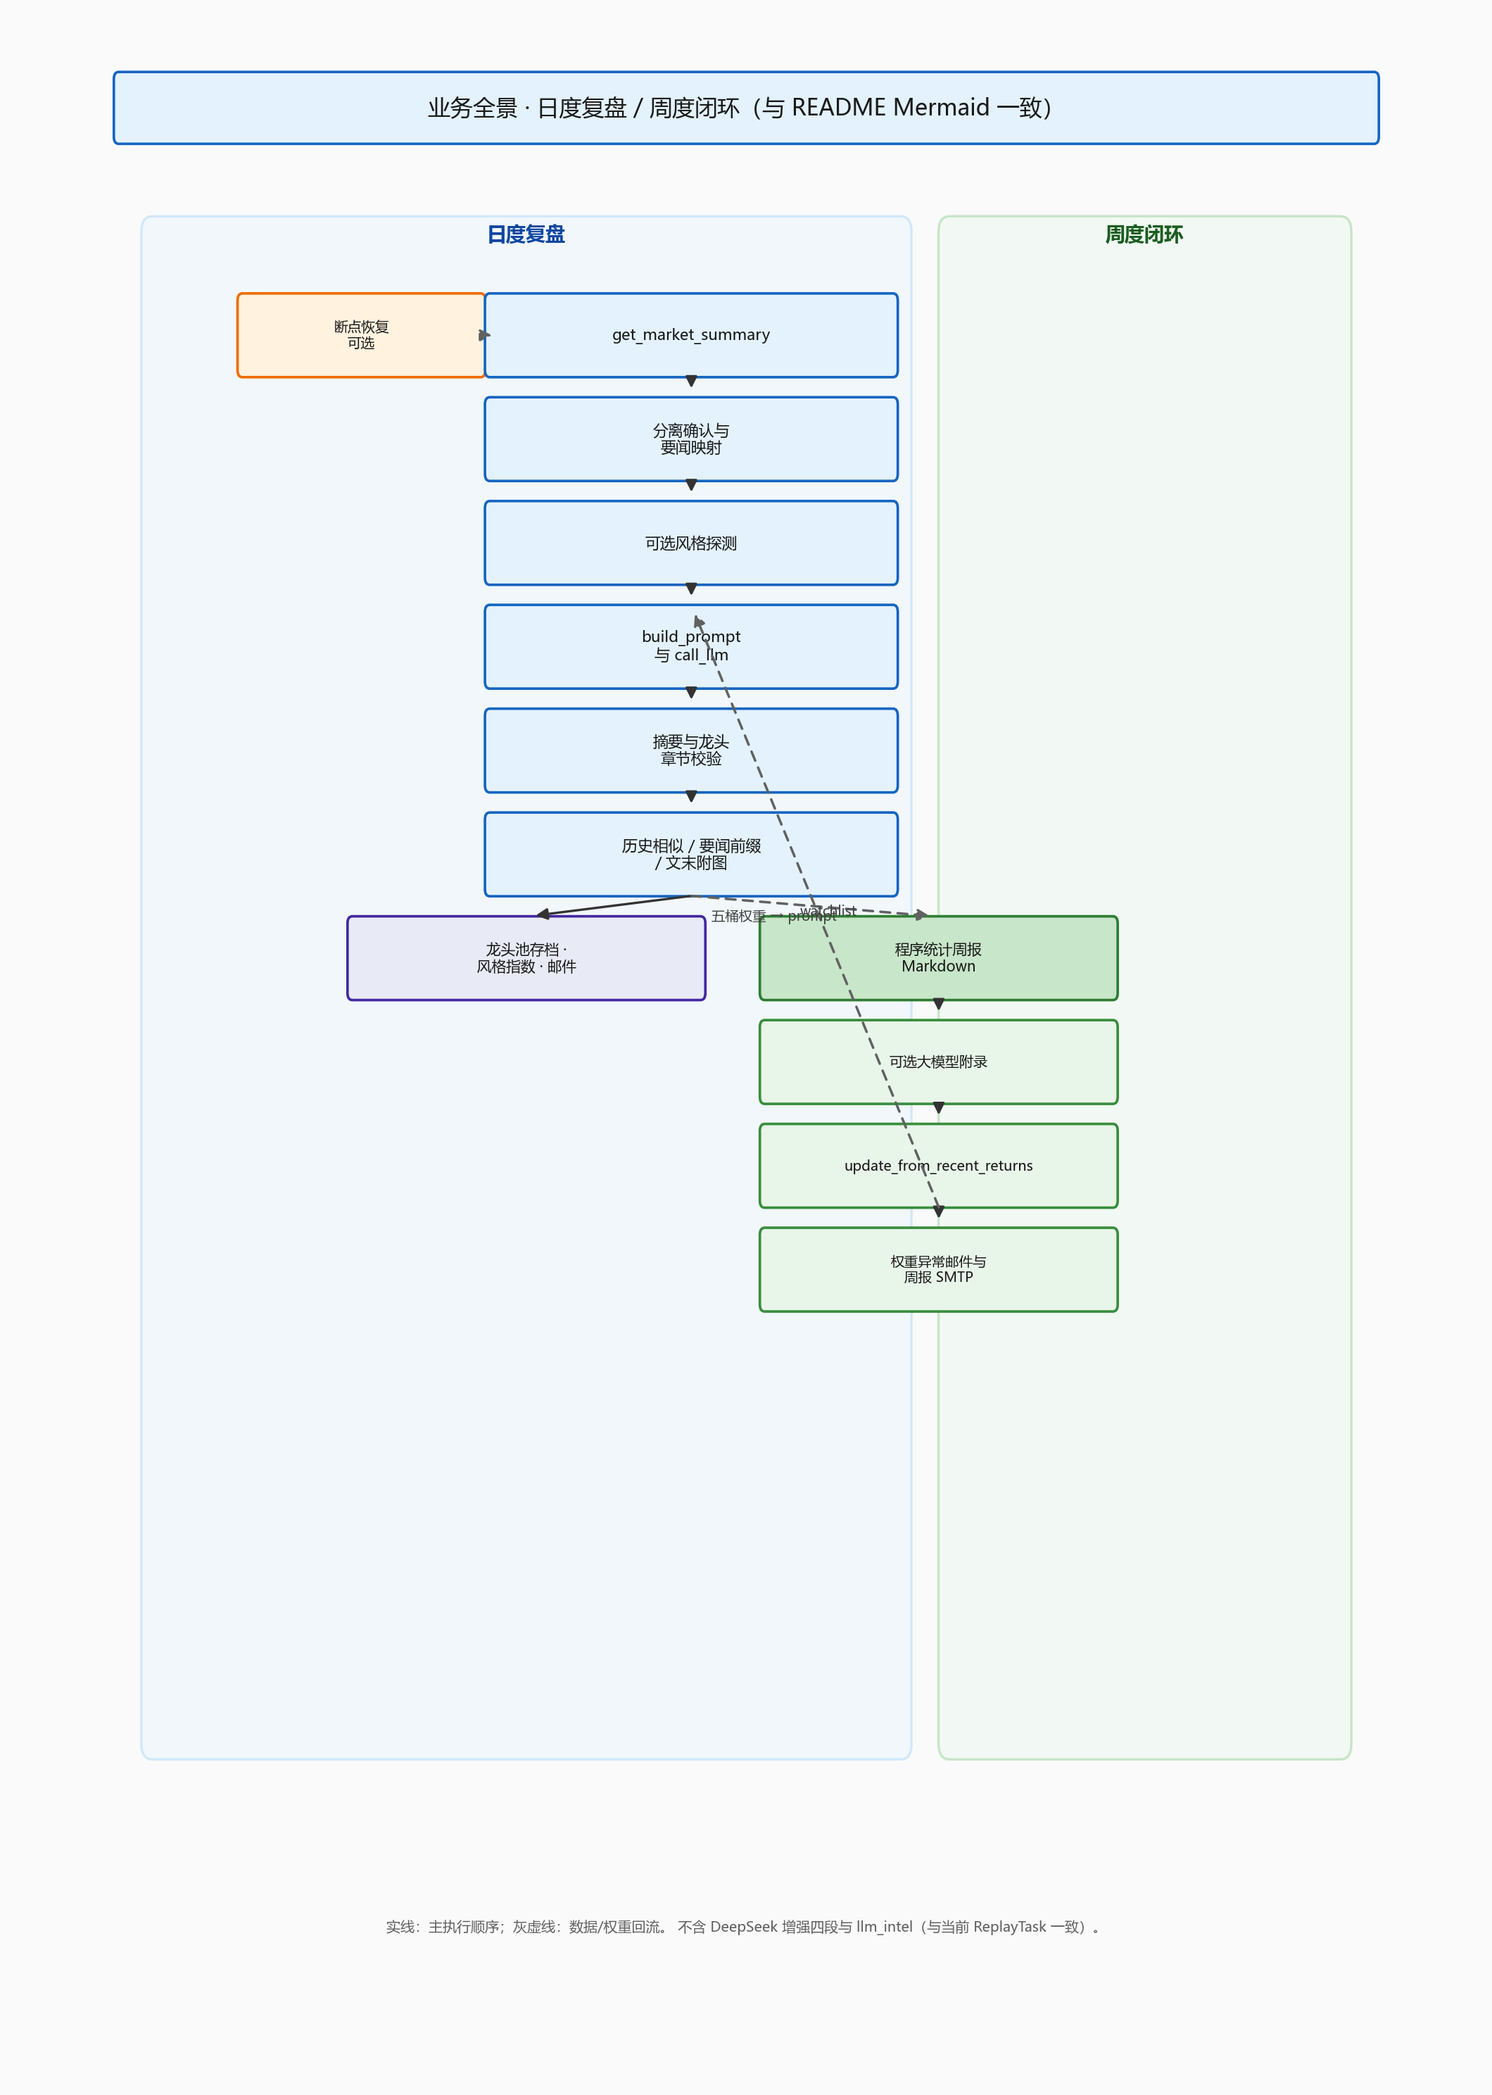
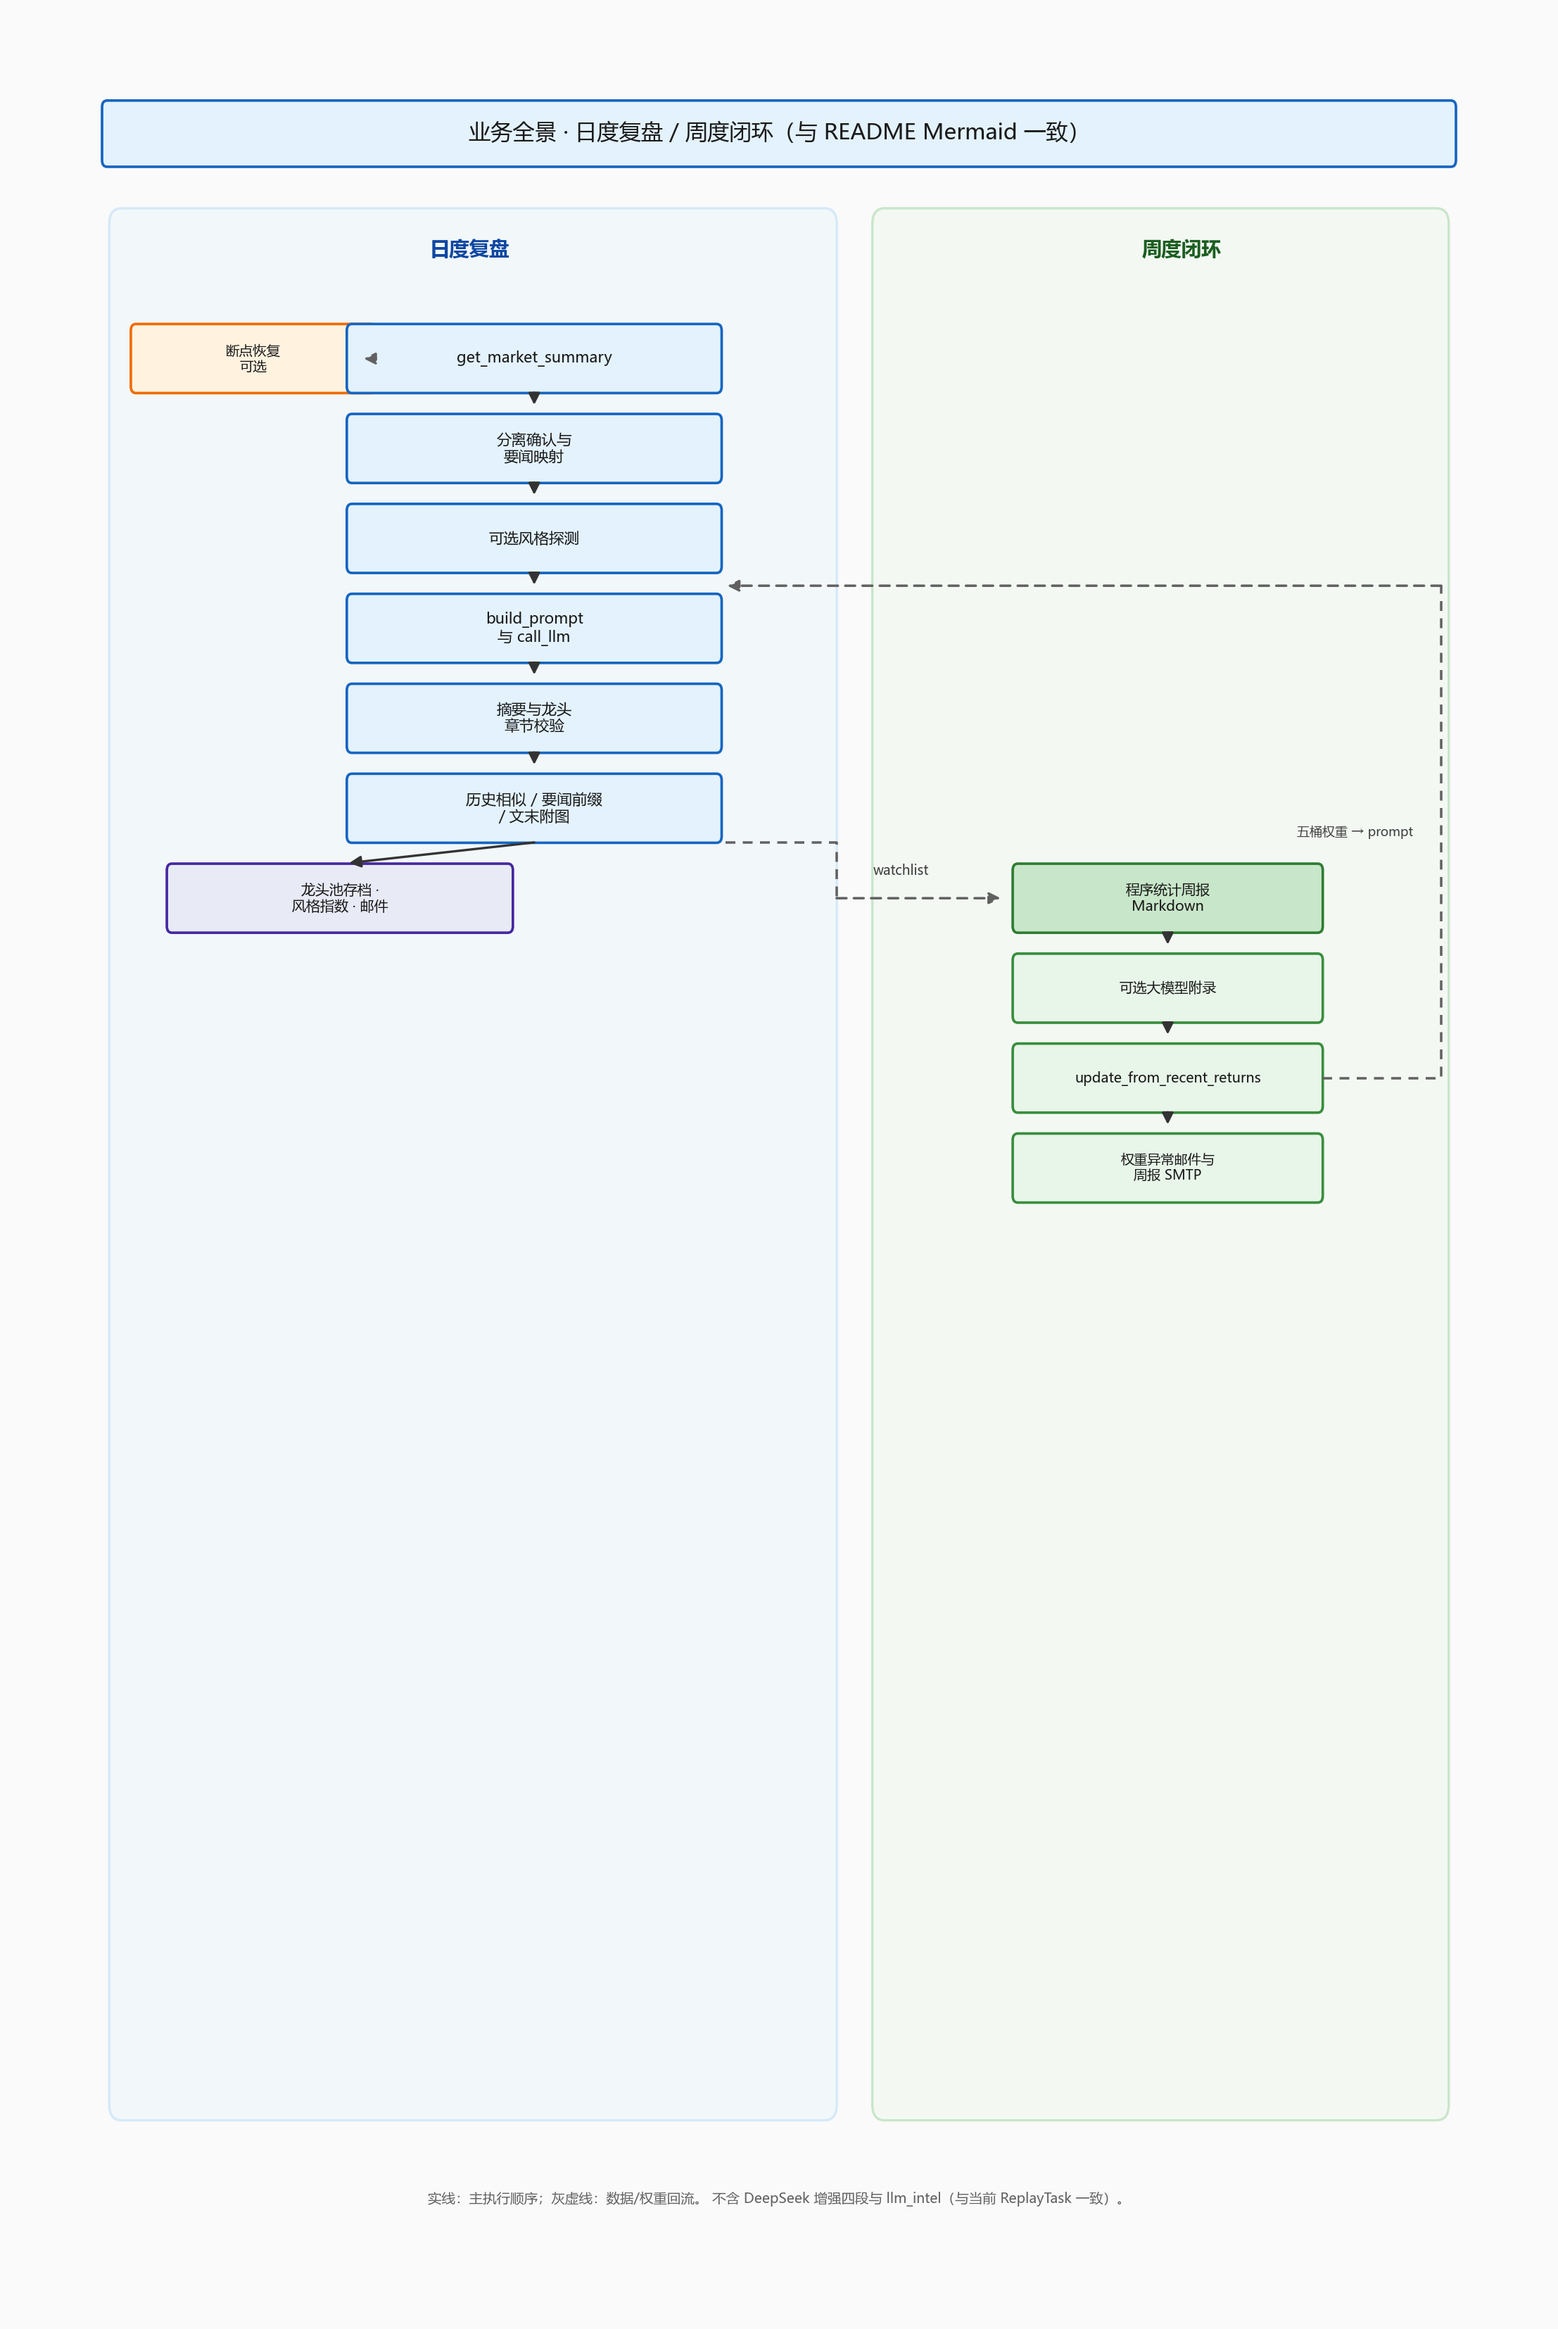
fix: README 业务全景 PNG 布局（分列走廊、折线虚线避免穿框）
Made-with: Cursor

diff --git a/app/utils/replay_footer_chart_draw.py b/app/utils/replay_footer_chart_draw.py
@@ -110,6 +110,30 @@ def _dashed_arrow(
     )
 
 
+def _dashed_line_segments(
+    ax,
+    points: list[tuple[float, float]],
+    *,
+    color: str = "#616161",
+    lw: float = 1.05,
+) -> None:
+    """虚折线（无箭头），用于绕行避免压住节点。"""
+    if len(points) < 2:
+        return
+    xs = [p[0] for p in points]
+    ys = [p[1] for p in points]
+    ax.plot(
+        xs,
+        ys,
+        linestyle=(0, (4, 3)),
+        color=color,
+        lw=lw,
+        solid_capstyle="round",
+        clip_on=False,
+        zorder=1,
+    )
+
+
 def _edge_label(ax, x: float, y: float, text: str, *, fs: float = 6.2) -> None:
     ax.text(
         x,
@@ -431,6 +455,8 @@ def save_readme_business_overview_png(out_path: str, *, dpi: int = 240) -> None:
     """
     README「业务全景」Mermaid 的静态 PNG：日度主链 + 周度闭环 + 两条虚线关联。
     不含已移除的「DeepSeek 增强四段」与「程序智能校验与决策摘要」节点。
+
+    布局：日度列靠左、周度列靠右，留出中间走廊；「五桶权重→prompt」用折线虚线，避免横穿节点。
     """
     import matplotlib.pyplot as plt
     from matplotlib import patches
@@ -441,68 +467,72 @@ def save_readme_business_overview_png(out_path: str, *, dpi: int = 240) -> None:
         title_fc="#e3f2fd",
         title_ec="#1565c0",
     )
-    GAP = 1.05
-    fig_w, fig_h = 10.5, 15.2
+    GAP = 1.15
+    bh = 3.65
+    bw = 26.0
+    bw_w = 21.5
+    # 更高画布，避免周度列与日度列在垂直方向挤在一起
+    fig_w, fig_h = 11.0, 17.0
+    y_max = 118.0
     fig, ax = plt.subplots(figsize=(fig_w, fig_h), dpi=dpi)
     ax.set_xlim(0, 100)
-    ax.set_ylim(0, 100)
+    ax.set_ylim(0, y_max)
     ax.axis("off")
     fig.patch.set_facecolor(pal.bg)
     ax.set_facecolor(pal.bg)
 
     cx = 50.0
-    y = 97.5
-    h_t = 3.6
+    y_title = 114.0
+    h_t = 3.5
     _rounded_box(
         ax,
-        (cx, y),
-        92,
+        (cx, y_title),
+        94,
         h_t,
         "业务全景 · 日度复盘 / 周度闭环（与 README Mermaid 一致）",
-        fs=9.6,
+        fs=9.4,
         fc=pal.title_fc,
         ec=pal.title_ec,
     )
 
     daily_rect = patches.FancyBboxPatch(
-        (6.0, 14.0),
-        56.0,
-        78.0,
-        boxstyle="round,pad=0.02,rounding_size=0.8",
+        (3.5, 8.0),
+        50.5,
+        102.0,
+        boxstyle="round,pad=0.02,rounding_size=0.85",
         linewidth=1.0,
         edgecolor="#90caf9",
         facecolor="#e3f2fd",
-        alpha=0.35,
+        alpha=0.32,
         zorder=0,
     )
     weekly_rect = patches.FancyBboxPatch(
-        (64.0, 14.0),
-        30.0,
-        78.0,
-        boxstyle="round,pad=0.02,rounding_size=0.8",
+        (56.5, 8.0),
+        40.0,
+        102.0,
+        boxstyle="round,pad=0.02,rounding_size=0.85",
         linewidth=1.0,
         edgecolor="#81c784",
         facecolor="#e8f5e9",
-        alpha=0.4,
+        alpha=0.38,
         zorder=0,
     )
     ax.add_patch(daily_rect)
     ax.add_patch(weekly_rect)
-    ax.text(34.0, 90.8, "日度复盘", ha="center", fontsize=8.4, color="#0d47a1", weight="bold")
-    ax.text(79.0, 90.8, "周度闭环", ha="center", fontsize=8.4, color="#1b5e20", weight="bold")
+    ax.text(28.5, 107.5, "日度复盘", ha="center", fontsize=8.5, color="#0d47a1", weight="bold", zorder=2)
+    ax.text(78.0, 107.5, "周度闭环", ha="center", fontsize=8.5, color="#1b5e20", weight="bold", zorder=2)
 
-    bw = 30.0
-    bh = 4.2
-    fs = 6.55
-    y_a = 86.0
-    x_b, x_a = 22.0, 46.0
+    fs = 6.45
+    x_chain = 33.0
+    x_b, x_a = 13.5, 33.0
+    y_a = 102.0
     _rounded_box(
         ax,
         (x_b, y_a),
-        18.0,
+        17.0,
         bh,
         "断点恢复\n可选",
-        fs=5.9,
+        fs=5.85,
         fc="#fff3e0",
         ec="#ef6c00",
     )
@@ -516,7 +546,7 @@ def save_readme_business_overview_png(out_path: str, *, dpi: int = 240) -> None:
         fc="#e3f2fd",
         ec="#1565c0",
     )
-    _dashed_arrow(ax, x_b + 9.0, y_a, x_a - bw / 2 + 0.5, y_a)
+    _dashed_arrow(ax, x_b + 8.5, y_a, x_a - bw / 2 + 0.5, y_a)
 
     chain_labels = [
         "分离确认与\n要闻映射",
@@ -525,7 +555,6 @@ def save_readme_business_overview_png(out_path: str, *, dpi: int = 240) -> None:
         "摘要与龙头\n章节校验",
         "历史相似 / 要闻前缀\n/ 文末附图",
     ]
-    x_chain = 46.0
     y_cur = y_a - bh / 2 - GAP - bh / 2
     centers: list[tuple[float, float]] = []
     for i, lab in enumerate(chain_labels):
@@ -538,33 +567,44 @@ def save_readme_business_overview_png(out_path: str, *, dpi: int = 240) -> None:
             _arrow(ax, x_chain, py - bh / 2, x_chain, y_cur + bh / 2)
         y_cur = y_cur - bh - GAP
 
-    x_h, x_w = 34.0, 64.0
+    x_h = 19.5
+    x_w = 77.0
     y_g = centers[-1][1]
     g_bot = y_g - bh / 2
     y_hw = y_g - bh / 2 - GAP - bh / 2
     _rounded_box(
         ax,
         (x_h, y_hw),
-        26.0,
+        24.0,
         bh,
         "龙头池存档 ·\n风格指数 · 邮件",
-        fs=6.2,
+        fs=6.0,
         fc="#e8eaf6",
         ec="#4527a0",
     )
     _rounded_box(
         ax,
         (x_w, y_hw),
-        26.0,
+        bw_w,
         bh,
         "程序统计周报\nMarkdown",
-        fs=6.2,
+        fs=6.0,
         fc="#c8e6c9",
         ec="#2e7d32",
     )
     _arrow(ax, x_chain, g_bot, x_h, y_hw + bh / 2)
-    _dashed_arrow(ax, x_chain, g_bot, x_w, y_hw + bh / 2)
-    _edge_label(ax, 56.0, (g_bot + y_hw) / 2 + 0.8, "watchlist", fs=5.8)
+    # G → W1：折线经中间走廊（先横移再落到 W1 左侧），避免斜穿两列
+    half_ww = bw_w / 2
+    _dashed_line_segments(
+        ax,
+        [
+            (x_chain + bw / 2 + 0.3, g_bot),
+            (54.0, g_bot),
+            (54.0, y_hw),
+        ],
+    )
+    _dashed_arrow(ax, 54.0, y_hw, x_w - half_ww - 0.2, y_hw)
+    _edge_label(ax, 58.5, (g_bot + y_hw) / 2, "watchlist", fs=5.7)
 
     weekly_rest = [
         "可选大模型附录",
@@ -578,10 +618,10 @@ def save_readme_business_overview_png(out_path: str, *, dpi: int = 240) -> None:
         _rounded_box(
             ax,
             (x_w, y_w),
-            26.0,
+            bw_w,
             bh,
             wlab,
-            fs=6.0 if j < 2 else 5.85,
+            fs=5.95 if j < 2 else 5.75,
             fc="#e8f5e9",
             ec="#388e3c",
         )
@@ -591,20 +631,30 @@ def save_readme_business_overview_png(out_path: str, *, dpi: int = 240) -> None:
         y_w = y_w - bh - GAP
 
     x_e, y_e = centers[2]
-    w3_x, w3_y = w_centers[1]
-    _dashed_arrow(ax, w3_x, w3_y - bh / 2, x_e, y_e + bh / 2)
-    _edge_label(ax, 52.0, (w3_y + y_e) / 2 - 0.5, "五桶权重 → prompt", fs=5.8)
+    _w3_x, w3_y = w_centers[1]
+    half_w = bw_w / 2
+    y_e_top = y_e + bh / 2
+    # 折线：W3 右侧 → 右缘竖直抬升到 E 顶高 → 水平指向 E（不穿过中间蓝框）
+    x_r = 96.0
+    w3_right = _w3_x + half_w
+    y_lane = y_e_top + 0.45
+    _dashed_line_segments(
+        ax,
+        [(w3_right, w3_y), (x_r, w3_y), (x_r, y_lane)],
+    )
+    _dashed_arrow(ax, x_r, y_lane, x_chain + bw / 2 - 0.25, y_lane)
+    _edge_label(ax, 90.0, (w3_y + y_lane) / 2, "五桶权重 → prompt", fs=5.4)
 
     ax.text(
         50.0,
-        5.5,
+        3.8,
         "实线：主执行顺序；灰虚线：数据/权重回流。"
         " 不含 DeepSeek 增强四段与 llm_intel（与当前 ReplayTask 一致）。",
         ha="center",
         va="center",
-        fontsize=6.0,
+        fontsize=5.85,
         color="#616161",
-        linespacing=1.15,
+        linespacing=1.12,
     )
 
     parent = os.path.dirname(out_path)
